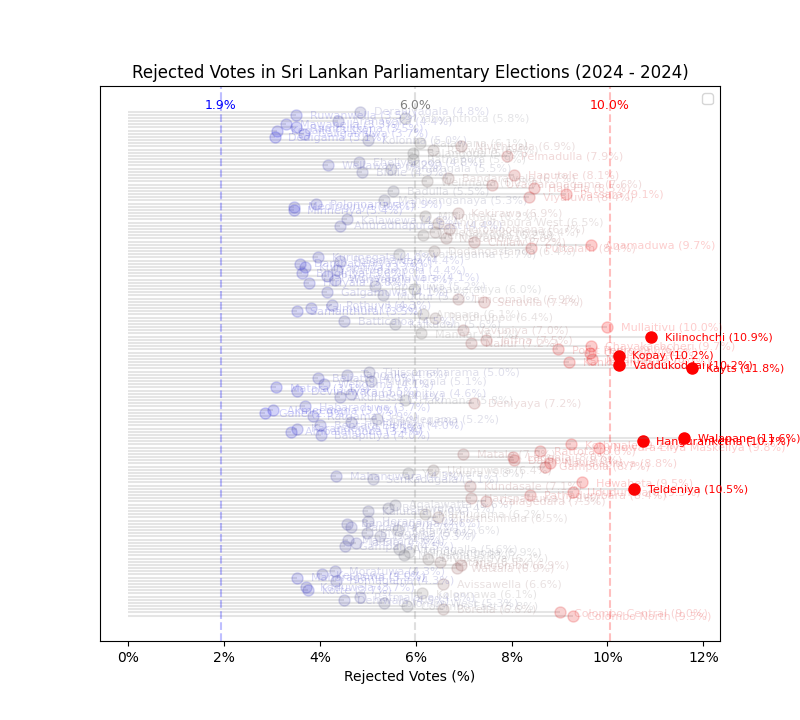
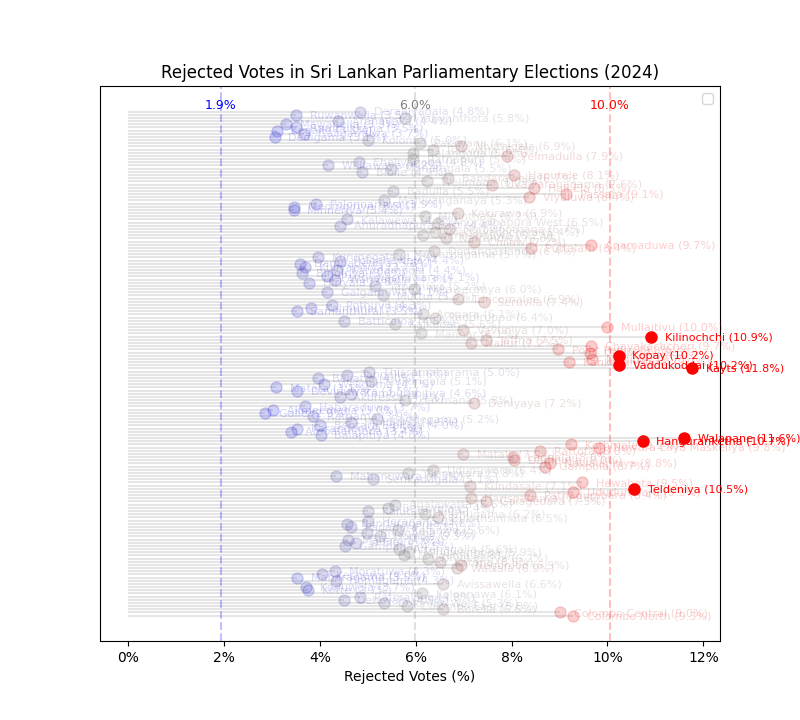
Update elections label formatting in plot_bars function for clarity on election year range

Changed region(s): [[0.1562, 0.0917, 0.875, 0.1222]]

diff --git a/examples/rejected_votes/__main__.py b/examples/rejected_votes/__main__.py
@@ -66,7 +66,11 @@ def plot_bars(elections, x_label, x_items, p_rejected):
     election_years = [election.year for election in elections]
     min_election_year = min(election_years)
     max_election_year = max(election_years)
-    elections_label = f"({min_election_year} - {max_election_year})"
+    elections_label = (
+        f"({min_election_year} - {max_election_year})"
+        if min_election_year != max_election_year
+        else f"({min_election_year})"
+    )
 
     plt.title(
         "Rejected Votes"
